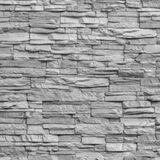
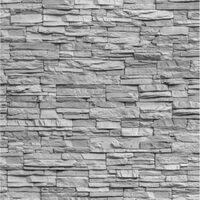
fix(wv): winwall decor images from the shop's flat panel photos
The colour fields were tiny crops of the room photos (no pattern visible, e.g.
Marmor weiß). Now: the shop's flat panel image per decor (CMYK ones converted to
sRGB), a whole-panel texture (assets/winwall/panel) for the 3D wall drawing and
Ihre Auswahl, and a full-width square crop for the colour field. Steinwand grau
from the image supplied by the user.

diff --git a/src/public/script.js b/src/public/script.js
@@ -8033,7 +8033,7 @@ function setupWandverkleidungPage() {
         .map((l) => `${l.qty} × ${l.format.set ? "Set " : ""}${l.format.widthCm}×${l.format.heightCm} cm (${l.productId})`)
         .join(" · ");
       return `<div class="wvc-sel">
-        <img class="wvc-sel__img" src="${tile?.querySelector("img")?.getAttribute("src") || ""}" alt="" />
+        <img class="wvc-sel__img" src="./assets/winwall/panel/WS${code}.jpg" alt="" />
         <div class="wvc-sel__info">
           <strong class="wvc-sel__name">winwall Duschrückwand ${name}</strong>
           <span class="wvc-sel__meta">WS ${code} · WV-WW · ${rows}</span>
@@ -12510,7 +12510,11 @@ document.getElementById("wvSketchDetails")?.addEventListener("toggle", (e) => {
     const pid = color.split("|")[0];
     if (/^WP00[1-6]$/i.test(pid)) return `./assets/budget/${pid.toUpperCase()}.webp`;
     if (/^WP007$/i.test(pid)) return document.querySelector(".kmp-card.is-selected img")?.src || "";
-    if (winwall()) return document.querySelector('input[name="wvWwDecor"]:checked')?.closest("label")?.querySelector("img")?.src || "";
+    // winwall: the whole flat panel (assets/winwall/panel), not the small colour field.
+    if (winwall()) {
+      const code = document.querySelector('input[name="wvWwDecor"]:checked')?.value;
+      return code ? `./assets/winwall/panel/WS${code}.jpg` : "";
+    }
     // Premium (Vigour): the picked colour tile's own image.
     if (vigour()) return document.querySelector('input[name="wvColor"]:checked')?.closest("label")?.querySelector("img")?.src || "";
     return "";
